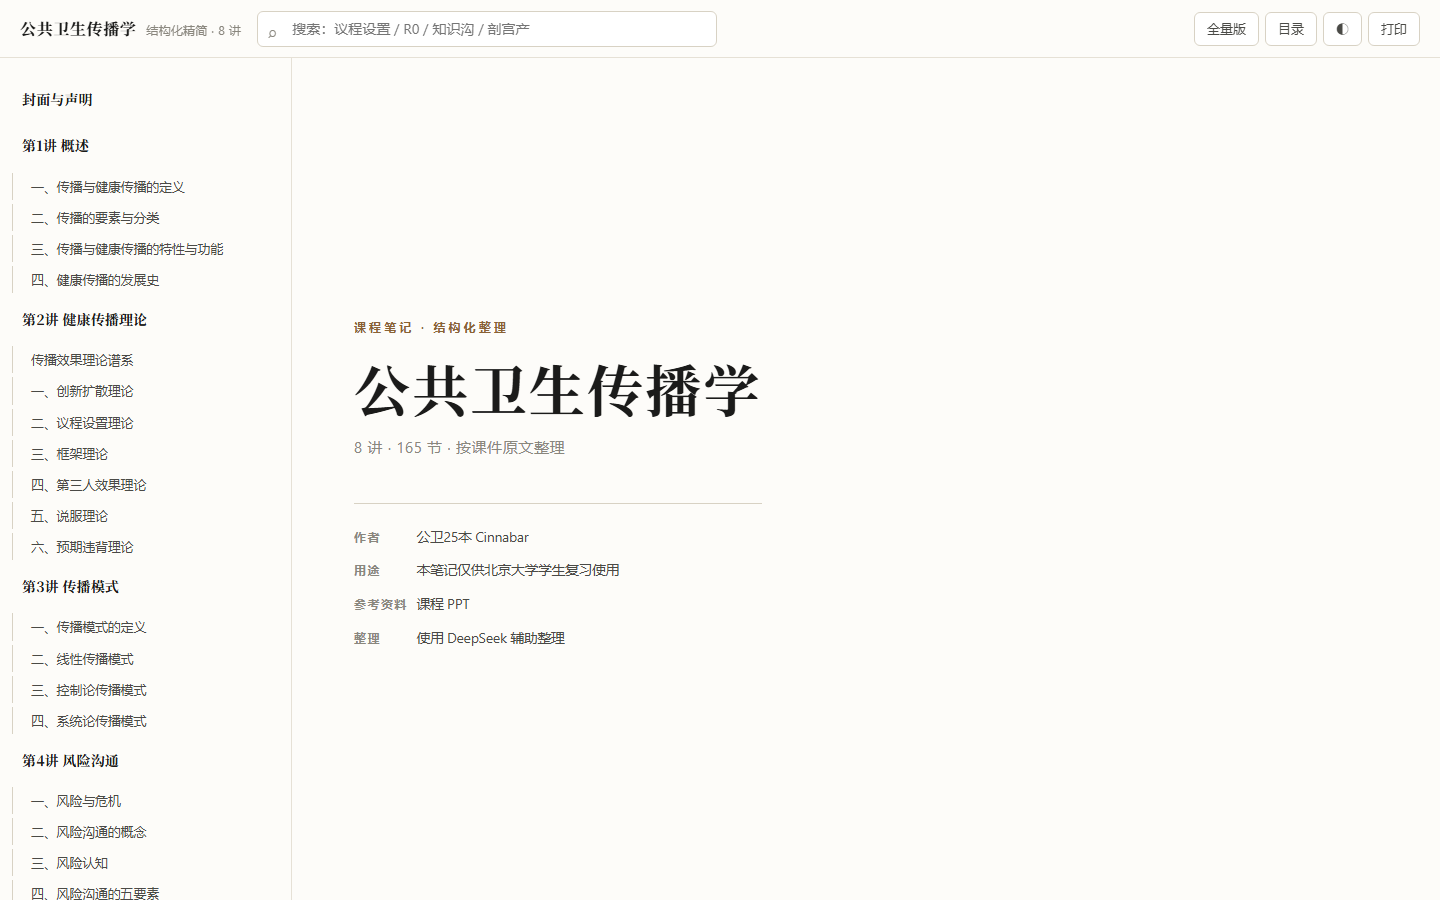
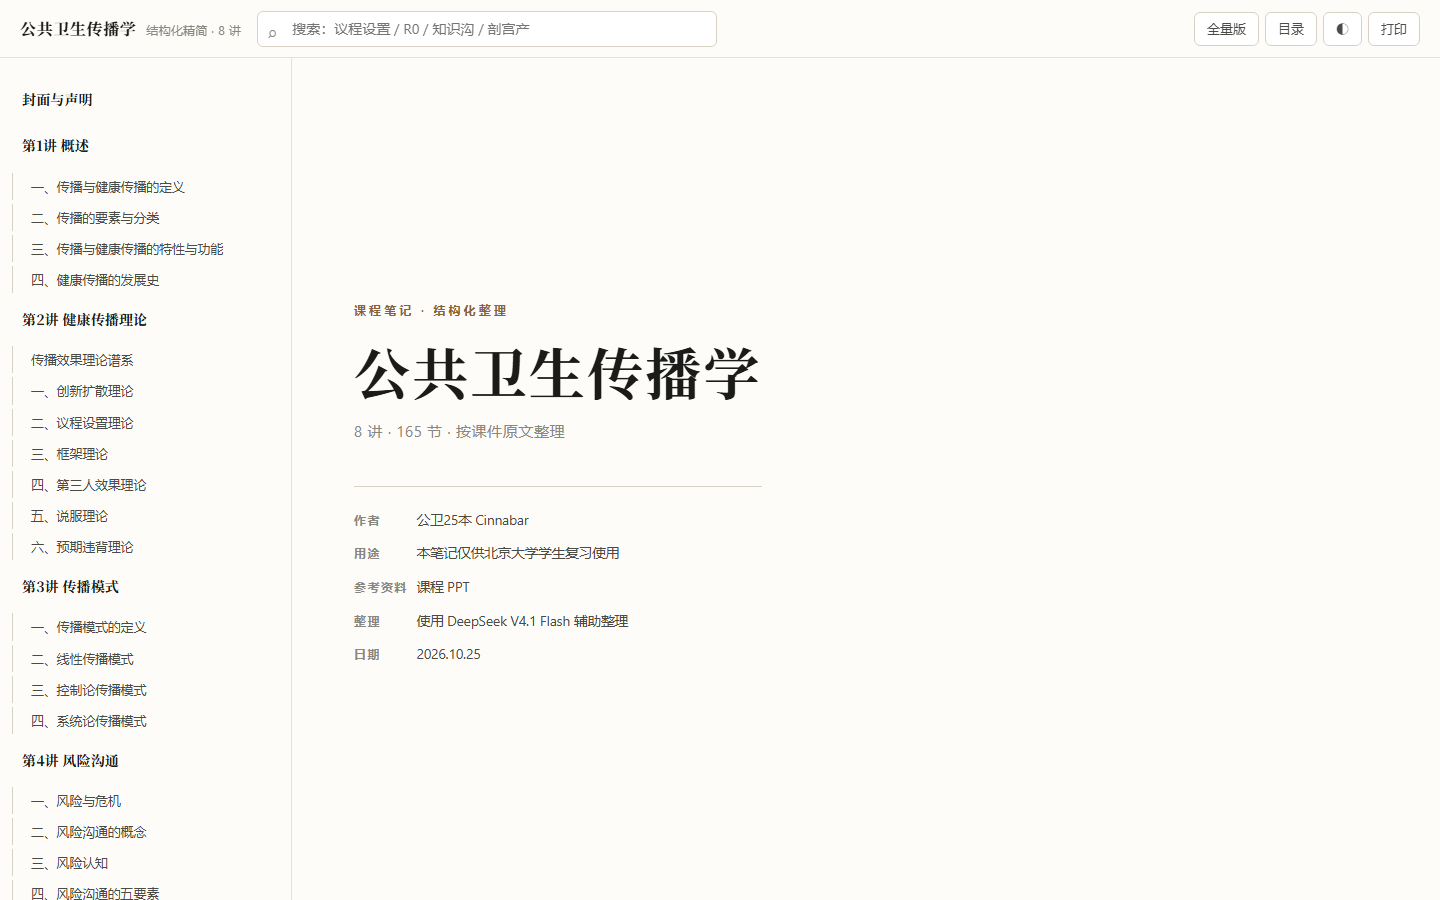
声明补充：DeepSeek V4.1 Flash 辅助整理，日期 2026.10.25

Changed region(s): [[0.25, 0.3422, 0.5312, 0.5289], [0.25, 0.56, 0.4375, 0.7467]]

diff --git a/index.html b/index.html
@@ -276,7 +276,8 @@ body.no-src blockquote.src{display:none}
     <p><b>作者</b>公卫25本 Cinnabar</p>
     <p><b>用途</b>本笔记仅供北京大学学生复习使用</p>
     <p><b>参考资料</b>课程 PPT</p>
-    <p><b>整理</b>使用 DeepSeek 辅助整理</p>
+    <p><b>整理</b>使用 DeepSeek V4.1 Flash 辅助整理</p>
+    <p><b>日期</b>2026.10.25</p>
   </div>
 </div>
 </section>

diff --git a/NOTICE.md b/NOTICE.md
@@ -7,7 +7,8 @@
 | 作者 | 公卫25本 Cinnabar |
 | 用途 | 本笔记仅供北京大学学生复习使用 |
 | 参考资料 | 课程 PPT |
-| 整理 | 使用 DeepSeek 辅助整理 |
+| 整理 | 使用 DeepSeek V4.1 Flash 辅助整理 |
+| 日期 | 2026.10.25 |
 
 本仓库不是课程官方材料，与授课教师及所在院校无隶属关系。
 

diff --git a/README.md b/README.md
@@ -11,7 +11,8 @@
 | 作者 | 公卫25本 Cinnabar |
 | 用途 | 本笔记仅供北京大学学生复习使用 |
 | 参考资料 | 课程 PPT |
-| 整理 | 使用 DeepSeek 辅助整理 |
+| 整理 | 使用 DeepSeek V4.1 Flash 辅助整理 |
+| 日期 | 2026.10.25 |
 
 ## 两个版本
 
